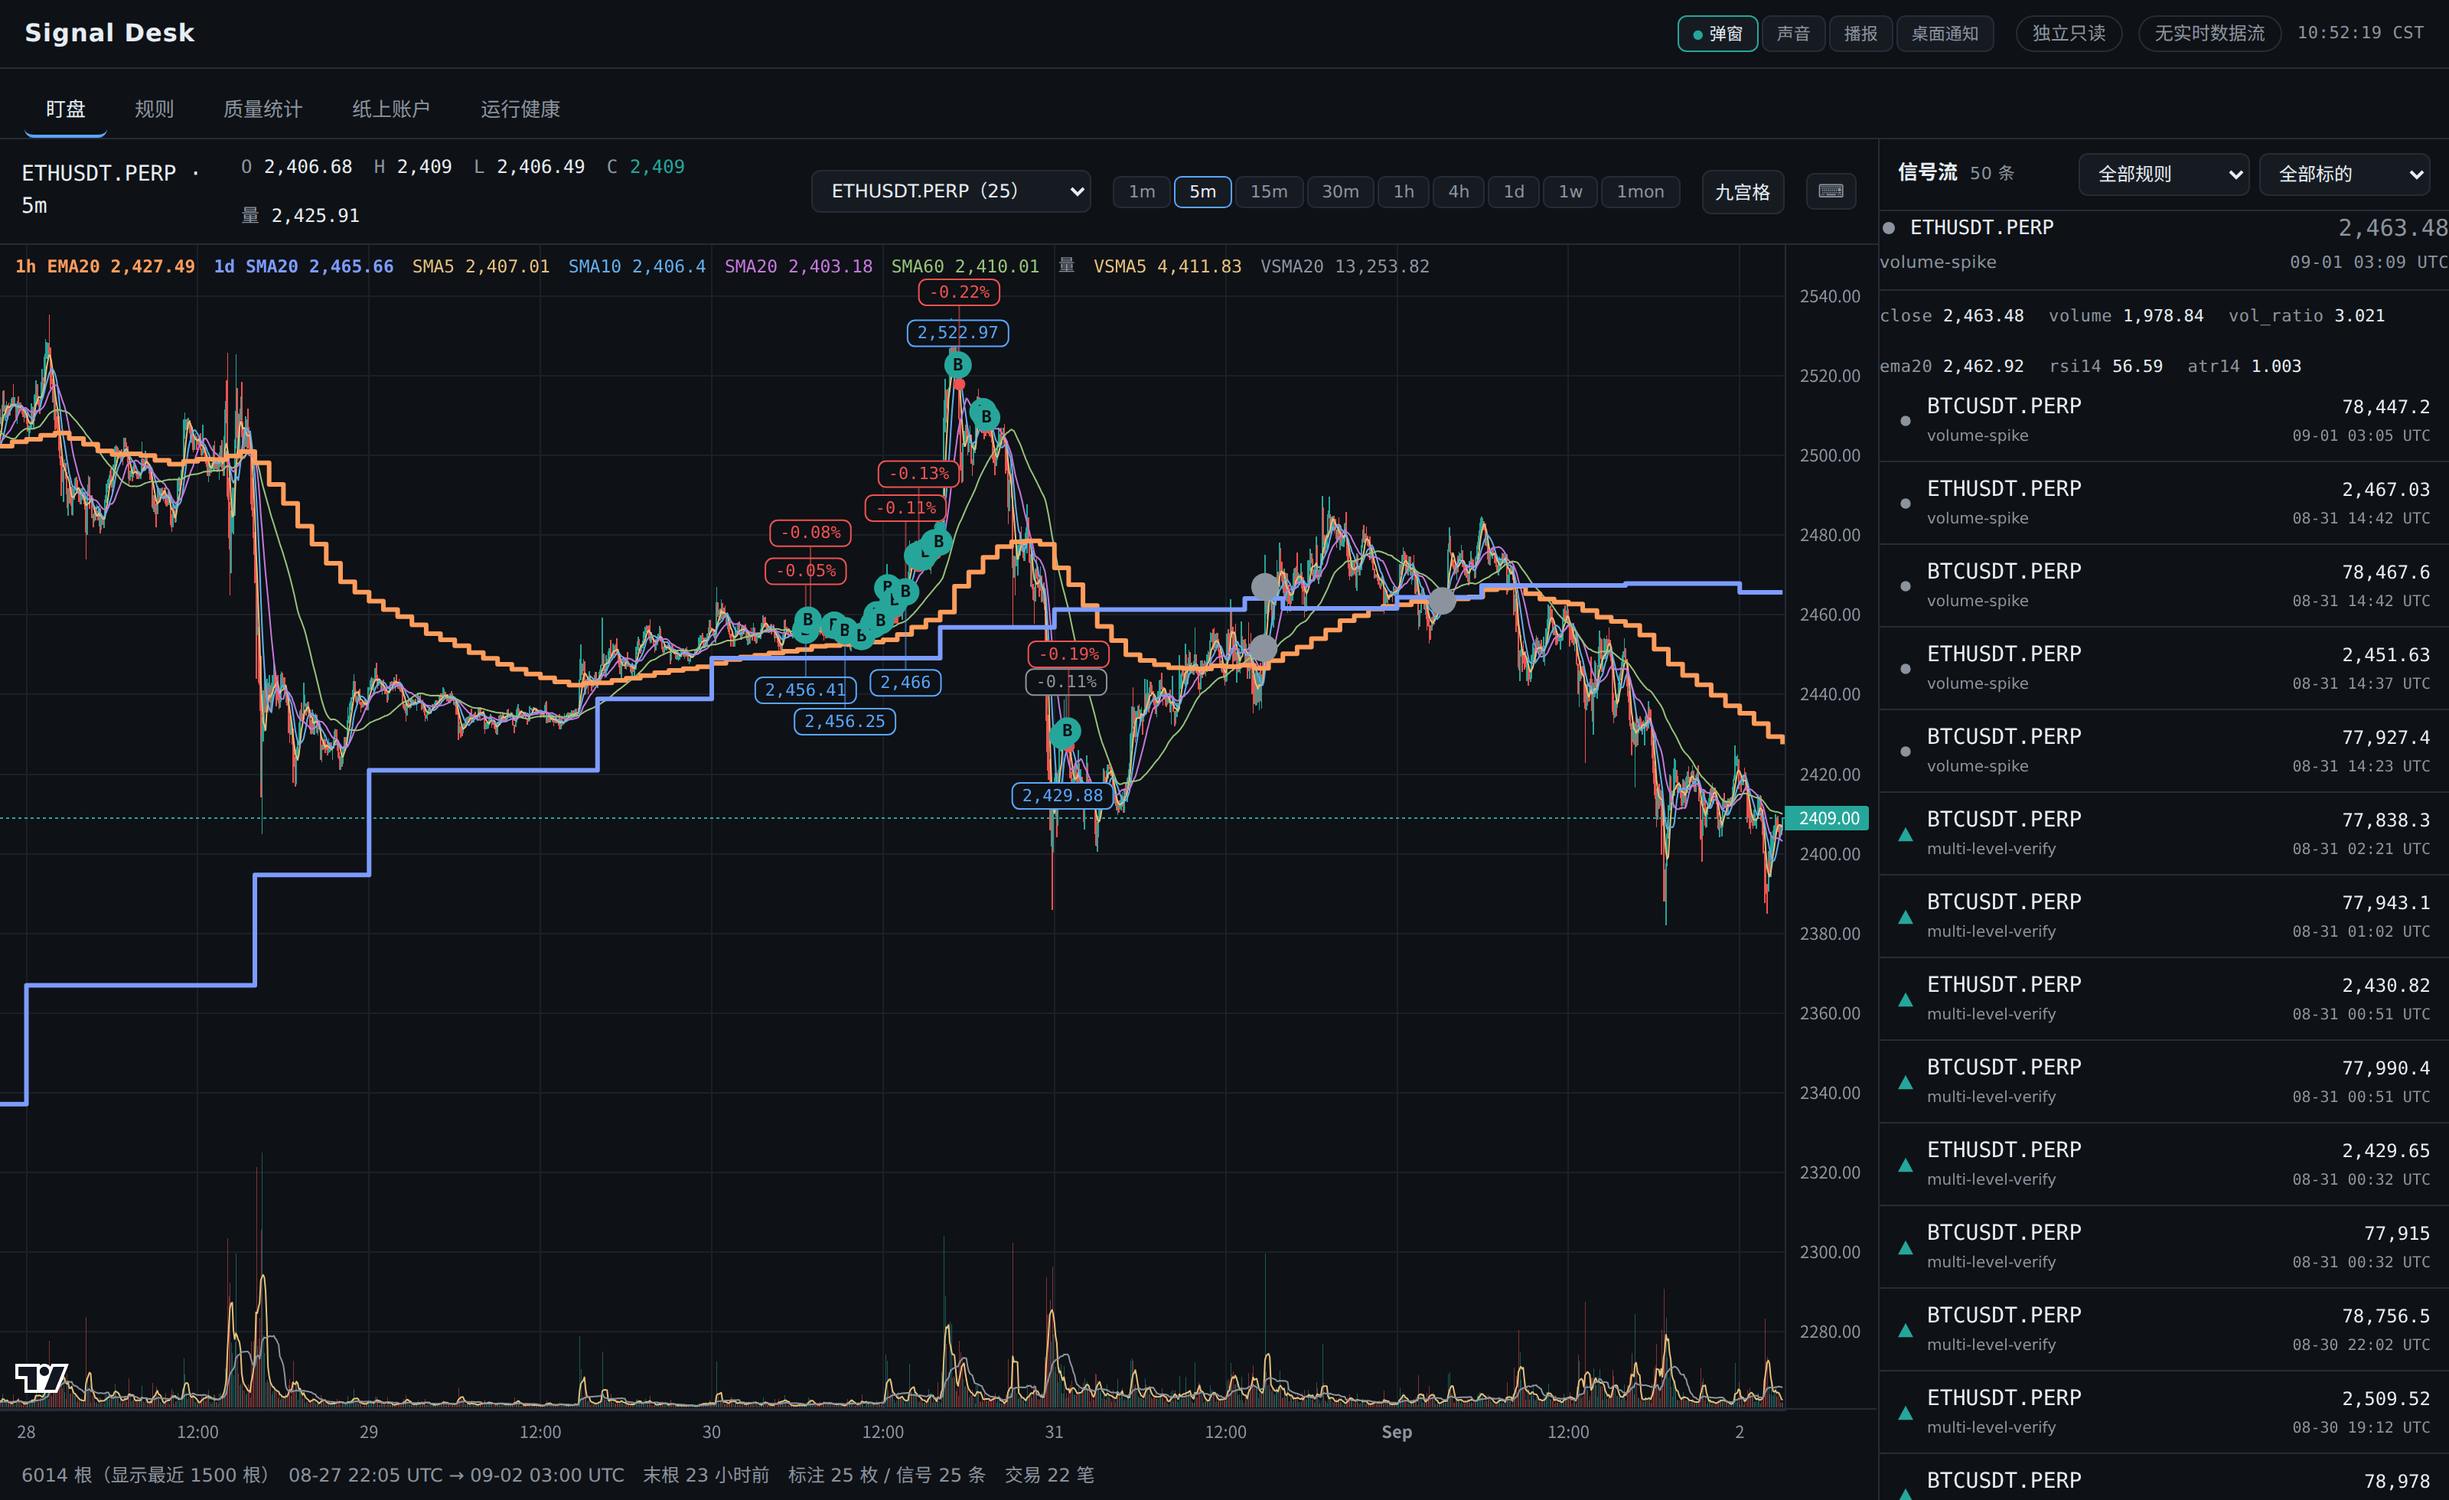
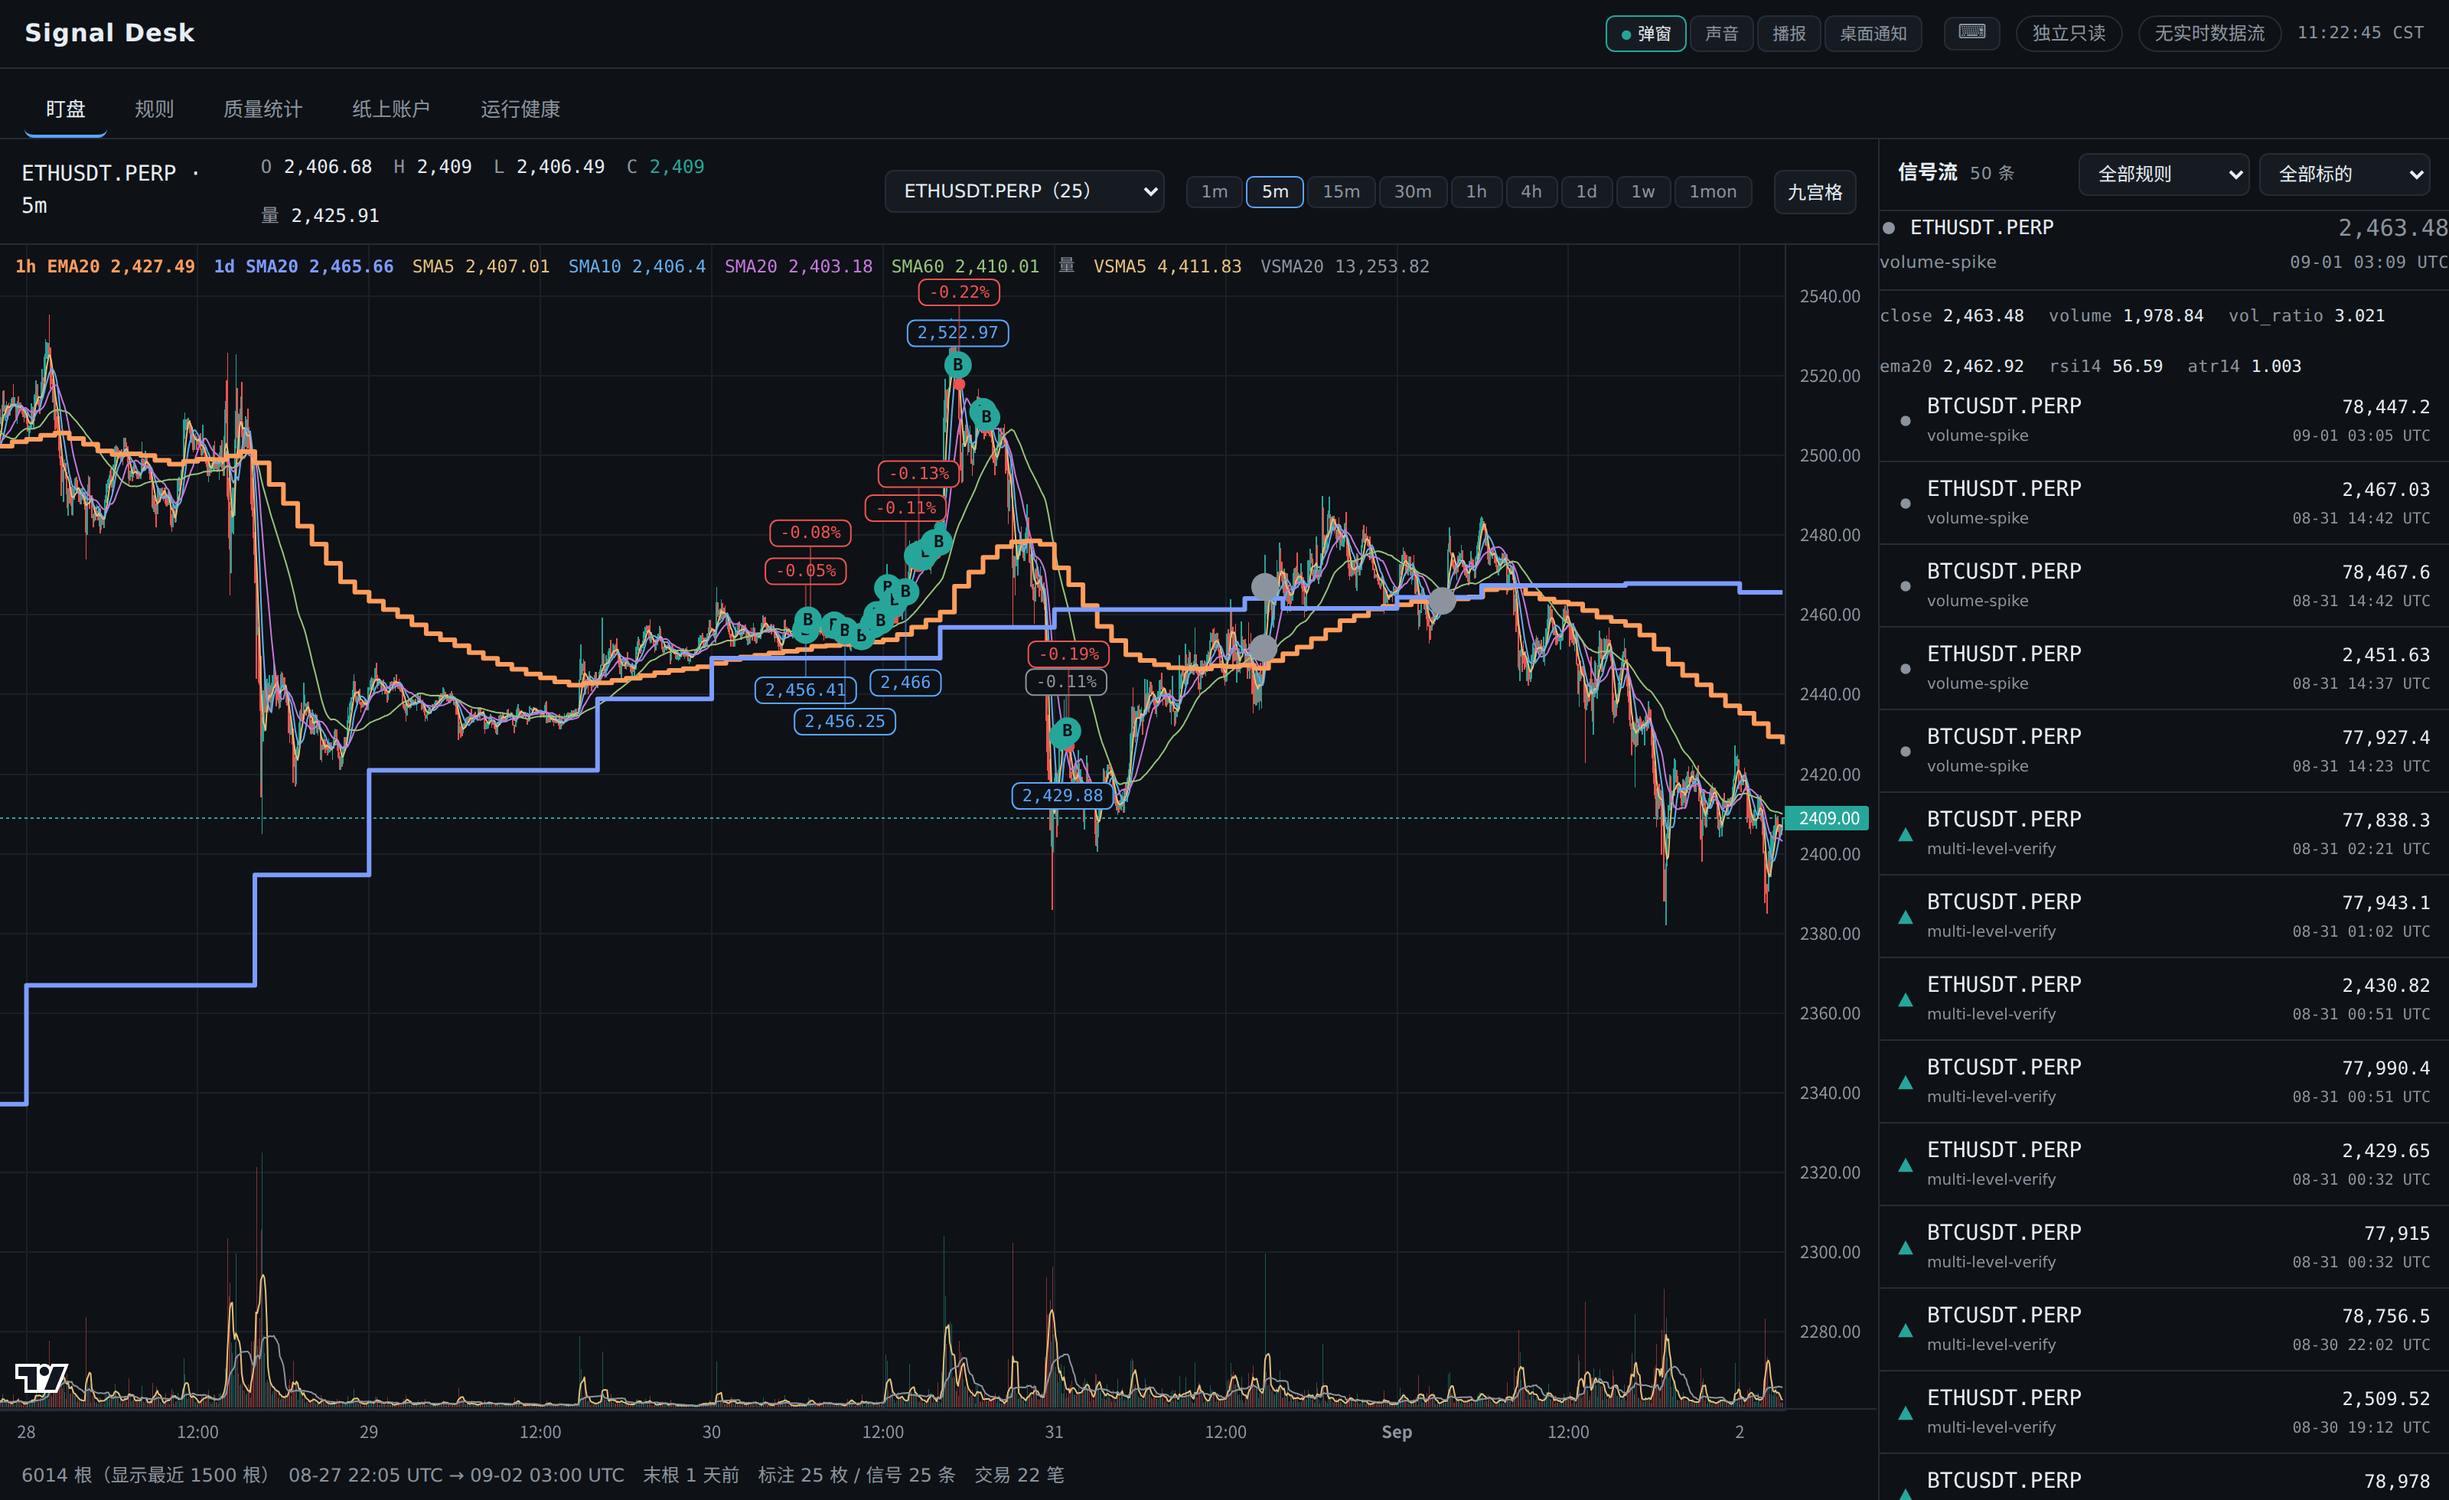
fix(web): 快捷键按钮移到顶栏
它是**全局功能**，跟「弹窗/声音/播报/桌面通知」同级，不是某张图的控件。
原来挨着「九宫格」有两个问题：信息架构错位；而且把那个按钮挤到过换行
（加它之前「九宫格」已经折成两行，加完变三行）。

样式从自成一套改为复用顶栏的 `.opt`，只微调字号与左右内边距 ——
它只有一个字符，不该占一个词那么宽。

真机验过：在 <header> 里、与「桌面通知」基线对齐（y 差 <1.5px、高差 <1.5px）、
elementFromPoint 命中自身、点击能开帮助层、控制台无错误。截图已刷新。

测试跟着改了意图：原来那条叫「chart-head 的按钮不换行」，同时断言两个按钮；
现在拆成「#grid-toggle 不换行」和「快捷键按钮属于顶栏、不在图表控件区」——
后者把用户这次的要求钉住，免得以后又挪回去。

817 测试全绿（+1），ruff/mypy 干净，离线验收 49/49。

Claude-Session: https://claude.ai/code/session_01StaFvqArU2DTk7UbXubU3U

diff --git a/src/sigdesk/web/static/index.html b/src/sigdesk/web/static/index.html
@@ -18,6 +18,10 @@
         <button class="opt" data-alert="speech" type="button">播报</button>
         <button class="opt" data-alert="desktop" type="button">桌面通知</button>
       </div>
+      <!-- 快捷键的唯一可见入口（只留 `?` 键的话没人知道有快捷键）。
+           **放顶栏不放图表控件区**：它是全局功能，跟"提醒方式"同级，
+           而不是某张图的控件。原来挨着「九宫格」，既错位又把那个按钮挤到换行。 -->
+      <button id="keys-btn" class="opt" type="button" title="键盘快捷键（按 ?）">⌨</button>
       <span id="mode" class="badge">加载中…</span>
       <span id="flows" class="badge mono">—</span>
       <span id="clock" class="mono lbl">—</span>
@@ -48,8 +52,6 @@
           <div id="grid-mode" class="tf-group" hidden></div>
           <button id="grid-toggle" type="button"
             title="九宫格：同一标的的 9 个周期同屏">九宫格</button>
-          <!-- 快捷键的唯一可见入口。只留 `?` 键的话没人会知道有快捷键。 -->
-          <button id="keys-btn" type="button" title="键盘快捷键（?）">⌨</button>
         </div>
         <div id="wl-tabs" class="wl-tabs" hidden></div>
         <div id="chart"><div id="ma-legend" class="ma-legend"></div></div>

diff --git a/src/sigdesk/web/static/styles.css b/src/sigdesk/web/static/styles.css
@@ -74,11 +74,9 @@ input:focus,select:focus{outline:none;border-color:var(--accent)}
    不写就会被压到最小宽度，「九宫格」三个字竖着排成三行（实测高 46px / 单行 15px）。
    加「⌨」之前它就已经折成两行了，只是没人注意。 */
 #grid-toggle{flex:none;white-space:nowrap}
-/* 快捷键入口：只有一个字符，别让它占一个按钮那么宽 */
-#keys-btn{padding:3px 7px;border:1px solid var(--line);background:var(--panel);
-  color:var(--dim);border-radius:5px;font-size:12px;cursor:pointer;line-height:1.35;
-  font-family:inherit;flex:none}
-#keys-btn:hover{color:var(--fg);border-color:var(--accent)}
+/* 快捷键入口在顶栏，样式走 .opt（与「弹窗/声音/播报」同一组视觉）。
+   这里只微调两处：字符宽度和图标字号 —— 它只有一个字，不该占一个词那么宽。 */
+#keys-btn{padding:3px 8px;font-size:13px;line-height:1.15;font-family:inherit;flex:none}
 .tf.active{color:var(--fg);border-color:var(--accent)}
 #chart{flex:1;min-height:200px;position:relative}
 .chart-empty{position:absolute;inset:0;display:flex;align-items:center;

diff --git a/tests/test_panel_js.py b/tests/test_panel_js.py
@@ -1073,18 +1073,35 @@ def test_pin_button_is_a_reachable_hit_target() -> None:
     assert size and min(size) >= 24, f"点击靶子太小：{size}（至少 24px）"
 
 
-def test_chart_head_buttons_do_not_wrap() -> None:
+def test_grid_toggle_does_not_wrap() -> None:
     """chart-head 是 flex 行，**不写 flex:none 就会被压到最小宽度**，
-    「九宫格」三个字竖着排成三行。加「⌨」之前它已经折成两行了，只是没人注意到。
+    「九宫格」三个字竖着排成三行（实测高 46px / 单行 15px）。
 
     同一个坑在 cell-head 上也踩过（那边靠 flex-wrap:nowrap 钉住）。
     """
     css = pathlib.Path("src/sigdesk/web/static/styles.css").read_text(encoding="utf-8")
-    for sel in ("#grid-toggle", "#keys-btn"):
-        block = css[css.index(sel + "{"):]
-        block = block[: block.index("}")]
-        assert "flex:none" in block, f"{sel} 会在窄头部里被压扁"
-    assert "white-space:nowrap" in css[css.index("#grid-toggle{"):][:120]
+    block = css[css.index("#grid-toggle{"):]
+    block = block[: block.index("}")]
+    assert "flex:none" in block, "#grid-toggle 会在窄头部里被压扁"
+    assert "white-space:nowrap" in block
+
+
+def test_shortcut_button_lives_in_the_header_not_the_chart_controls() -> None:
+    """**快捷键是全局功能，按钮该在顶栏**，跟「提醒方式」同级 ——
+    不是某张图的控件（用户反馈）。
+
+    它原来挨着「九宫格」，既是信息架构错位，又把那个按钮挤到了换行。
+    """
+    html = pathlib.Path("src/sigdesk/web/static/index.html").read_text(encoding="utf-8")
+    header = html[html.index("<header>"):html.index("</header>")]
+    assert 'id="keys-btn"' in header, "快捷键按钮应该在 <header> 里"
+
+    chart_head = html[html.index('class="chart-head"'):]
+    chart_head = chart_head[: chart_head.index("</div>")]
+    assert "keys-btn" not in chart_head, "别再把它放回图表控件区"
+
+    # 视觉上与顶栏其它按钮同组，不要自成一套
+    assert 'id="keys-btn" class="opt"' in html, "应复用顶栏按钮的 .opt 样式"
 
 
 def test_clock_shows_market_time_not_utc() -> None:

diff --git a/CLAUDE.md b/CLAUDE.md
@@ -265,7 +265,8 @@ canvas（z-index:1/2）整个盖住就是这样 —— 元素在、文字在、v
   `T` 换网格模式、`[`/`]` 切预警组市场。
 - 三条约束，每条都能单独毁掉这个功能：**输入框里一律不响应**（规则页有 textarea，
   在里面敲 "1d" 会被吃成切周期）；**不碰浏览器占用的** `Ctrl+数字`/`Ctrl+W`/`F5`；
-  **必须有 `?` 帮助 + 头部「⌨」入口** —— 快捷键不可见就等于不存在。
+  **必须有 `?` 帮助 + 「⌨」入口** —— 快捷键不可见就等于不存在。
+  「⌨」按钮放**顶栏**（与「提醒方式」同级），不是图表控件区 —— 它是全局功能。
 - 数字键按周期条的**显示顺序**取按钮，不写死映射；切周期一律**走按钮自己的 onclick**，
   不另写一套切换逻辑（两套逻辑迟早分叉）。
 

diff --git a/CHANGELOG.md b/CHANGELOG.md
@@ -45,6 +45,9 @@
   所以这个入口和快捷键本身是同一件事的两半。
 
 ### Fixed
+- **快捷键「⌨」按钮从图表控件区移到顶栏**。它是全局功能，跟「提醒方式」同级，
+  不是某张图的控件；放在「九宫格」旁边既是信息架构错位，也把那个按钮挤到过换行。
+  样式改为复用顶栏的 `.opt`，与相邻按钮同组。
 - **`os.kill(pid, 0)` 在 Windows 上会终止目标进程**（严重）。Python 的 `os.kill`
   在 Windows 上没有「信号 0 探测」：除 CTRL_C_EVENT/CTRL_BREAK_EVENT 外走的是
   `TerminateProcess()`。这是**生产路径** —— `watch.py` 启动时 `claim_writer` 会调它，
